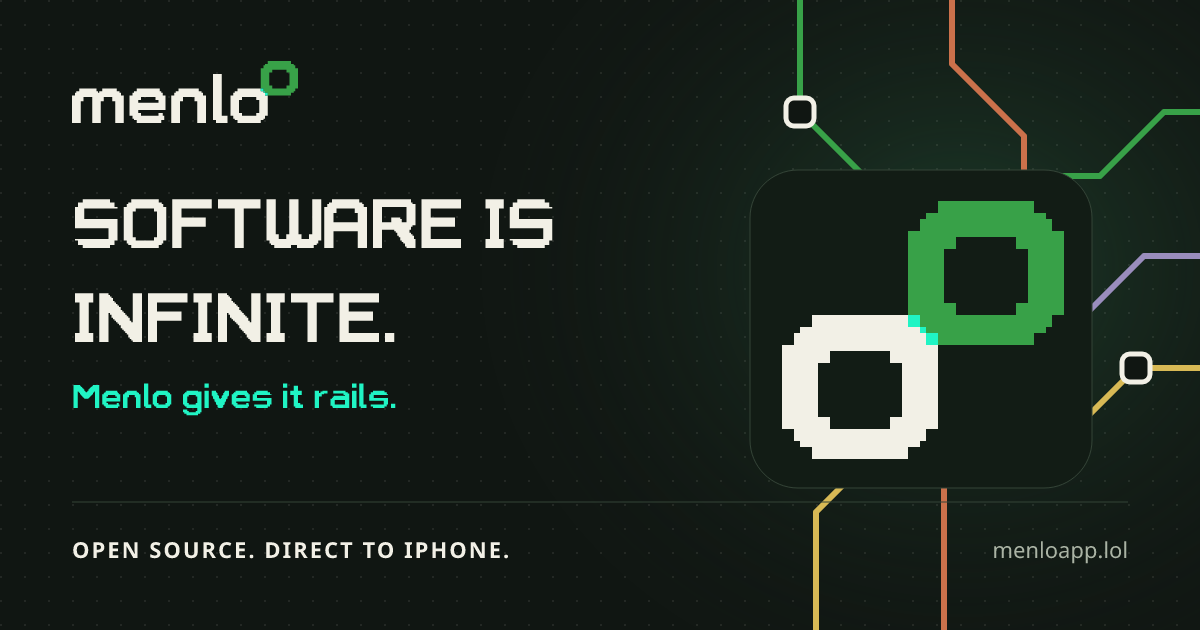
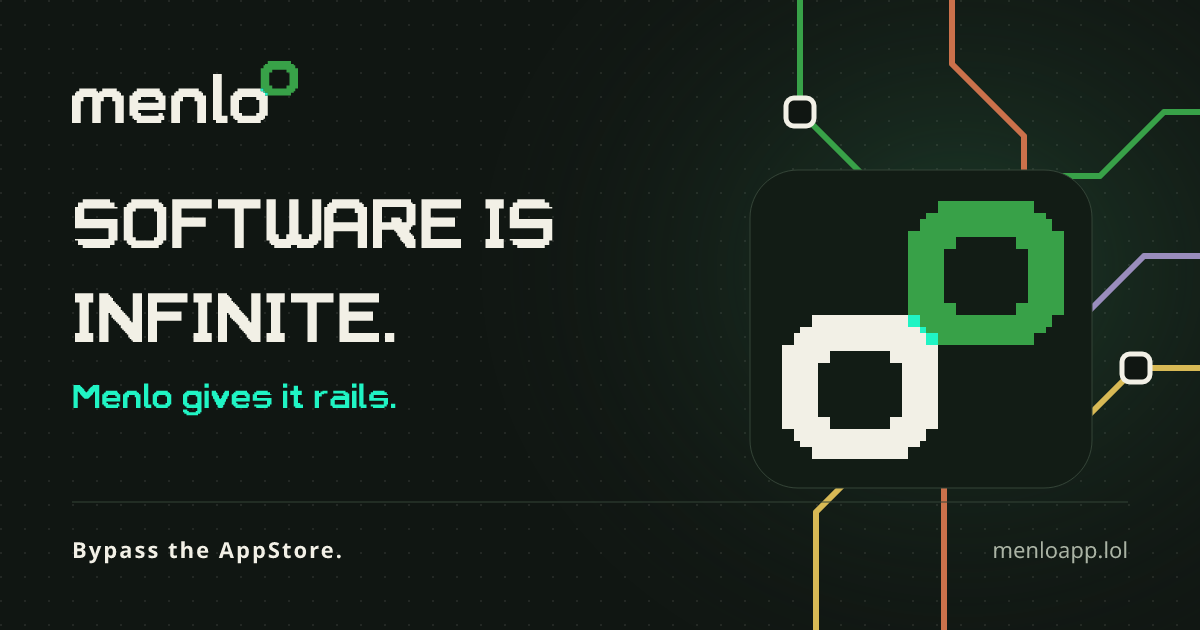
Use Bypass the AppStore in Menlo share previews

Changed region(s): [[0.0617, 0.8444, 0.4317, 0.9048]]

diff --git a/website/apps/site/tests/http-routes.test.ts b/website/apps/site/tests/http-routes.test.ts
@@ -93,7 +93,7 @@ describe("public pages", () => {
     const response = await application.fetch(request("/", { headers: { "User-Agent": "Twitterbot/1.0" } }));
     const body = await response.text();
     expect(body).toContain('<meta property="og:site_name" content="MENLO">');
-    expect(body).toContain('<meta property="og:title" content="Menlo — Open source. Direct to iPhone.">');
+    expect(body).toContain('<meta property="og:title" content="Menlo — Bypass the AppStore.">');
     expect(body).toContain('<meta property="og:url" content="http://localhost:3000/">');
     expect(body).toContain('<meta name="twitter:card" content="summary_large_image">');
     expect(body).toContain('<meta property="og:image:width" content="1200">');
@@ -120,7 +120,7 @@ describe("public pages", () => {
     const response = await application.fetch(request("/"));
     expect(response.status).toBe(200);
     const body = await response.text();
-    expect(body).toContain("<title>Open source. Direct to iPhone. — Menlo</title>");
+    expect(body).toContain("<title>Bypass the AppStore. — Menlo</title>");
     expect(body).toContain("npm i -g menloapp");
     expect(body).toContain("menloapp deploy");
     expect(body).toContain('aria-label="Discover apps"');

diff --git a/website/apps/site/scripts/render-menlo-og.ts b/website/apps/site/scripts/render-menlo-og.ts
@@ -34,7 +34,7 @@ const svg = `<svg xmlns="http://www.w3.org/2000/svg" width="1200" height="630" v
 <text x="72" y="342" font-family="MenloApp" font-size="76" font-weight="700" fill="#f2f0e6">INFINITE.</text>
 <text x="72" y="408" font-family="MenloApp" font-size="36" font-weight="700" fill="#20f4c4">Menlo gives it rails.</text>
 <path d="M72 502H1128" stroke="#334336"/>
-<text x="72" y="558" font-family="Noto Sans" font-size="22" font-weight="700" letter-spacing="2" fill="#f2f0e6">OPEN SOURCE. DIRECT TO IPHONE.</text>
+<text x="72" y="558" font-family="Noto Sans" font-size="22" font-weight="700" letter-spacing="2" fill="#f2f0e6">Bypass the AppStore.</text>
 <text x="1128" y="558" text-anchor="end" font-family="Noto Sans" font-size="22" fill="#aab3a4">menloapp.lol</text>
 </svg>`;
 

diff --git a/website/apps/site/src/menlo-shell.ts b/website/apps/site/src/menlo-shell.ts
@@ -10,7 +10,7 @@ const MENLO_COIN_ADDRESS: string = "";
 
 export const discoveryDescription = "Bypass the app stores. Get real people using your apps, honest feedback, and a better shot at winning.";
 // Titles of the pages that are the Discover destination itself.
-const DISCOVER_TITLES = new Set(["Discover apps", "Open source. Direct to iPhone."]);
+const DISCOVER_TITLES = new Set(["Discover apps", "Bypass the AppStore."]);
 
 export function macDownload(id: string): string {
   return `<div class="ml-mac-download"><a class="ml-button ml-download-button" href="/download/macos" aria-describedby="${id}">${macIcon}<span>Download for Mac</span>${downloadIcon}</a><span class="ml-download-detail" id="${id}">Release candidate · macOS 14+</span></div>`;

diff --git a/website/apps/site/src/menlo-landing.ts b/website/apps/site/src/menlo-landing.ts
@@ -1,7 +1,7 @@
 import { escapeHTML as escape } from "./social-cards.ts";
 import { macDownload } from "./menlo-shell.ts";
 
-export const homeTitle = "Open source. Direct to iPhone.";
+export const homeTitle = "Bypass the AppStore.";
 export const homeDescription = "Discover and share open-source iPhone apps. Publish from GitHub, send a link, and build on your own Mac with your own Apple identity.";
 
 // The map is a fixed drawing. Stations are filled, most recent first, only
